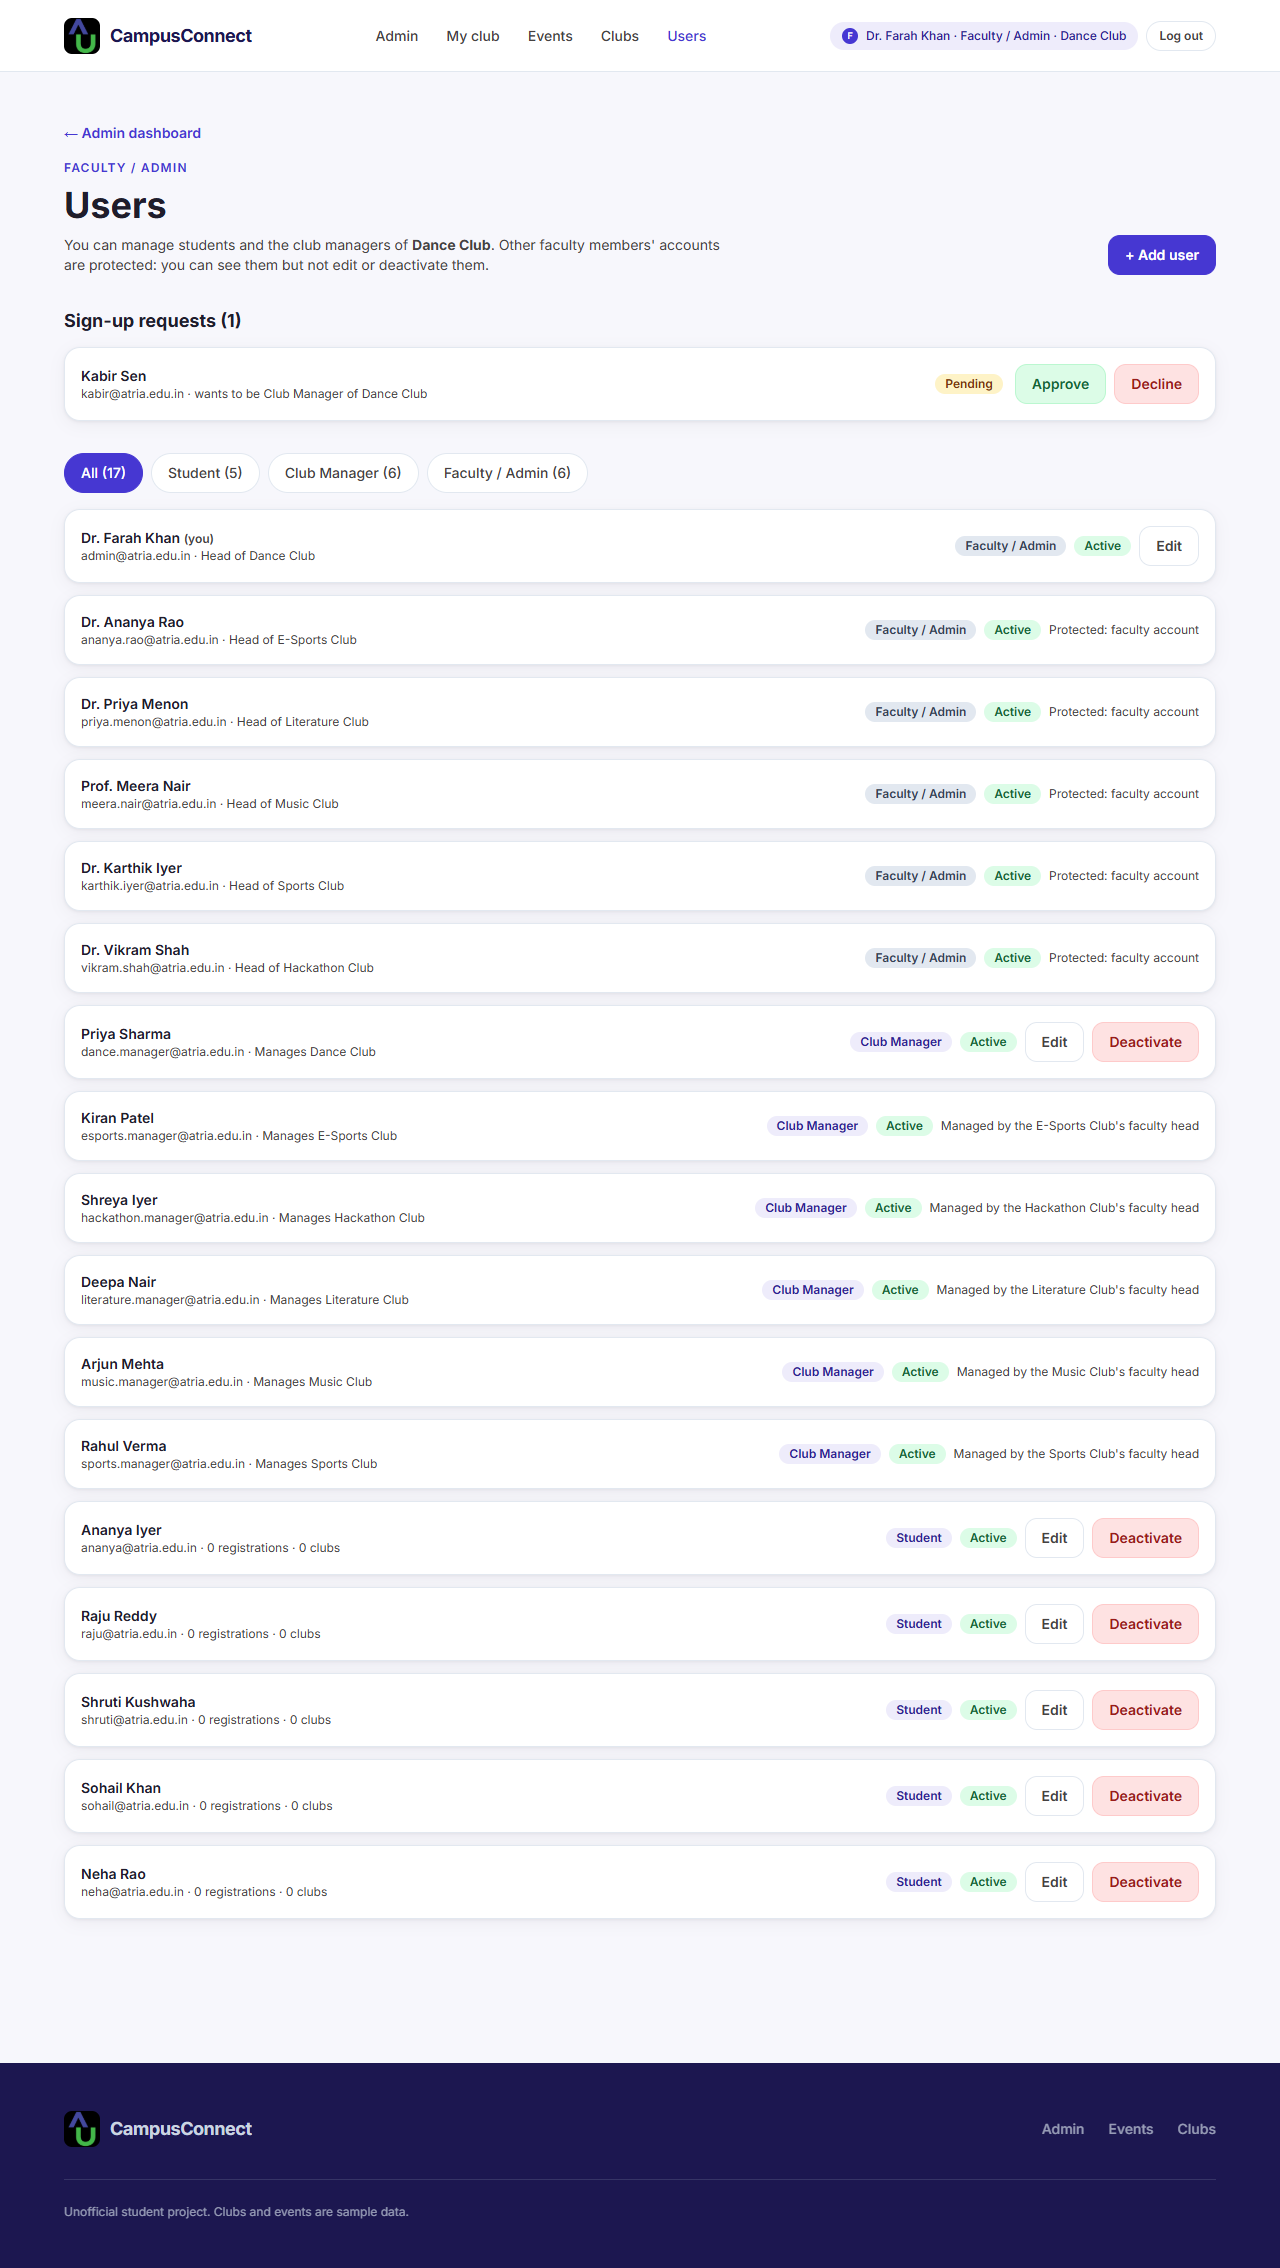
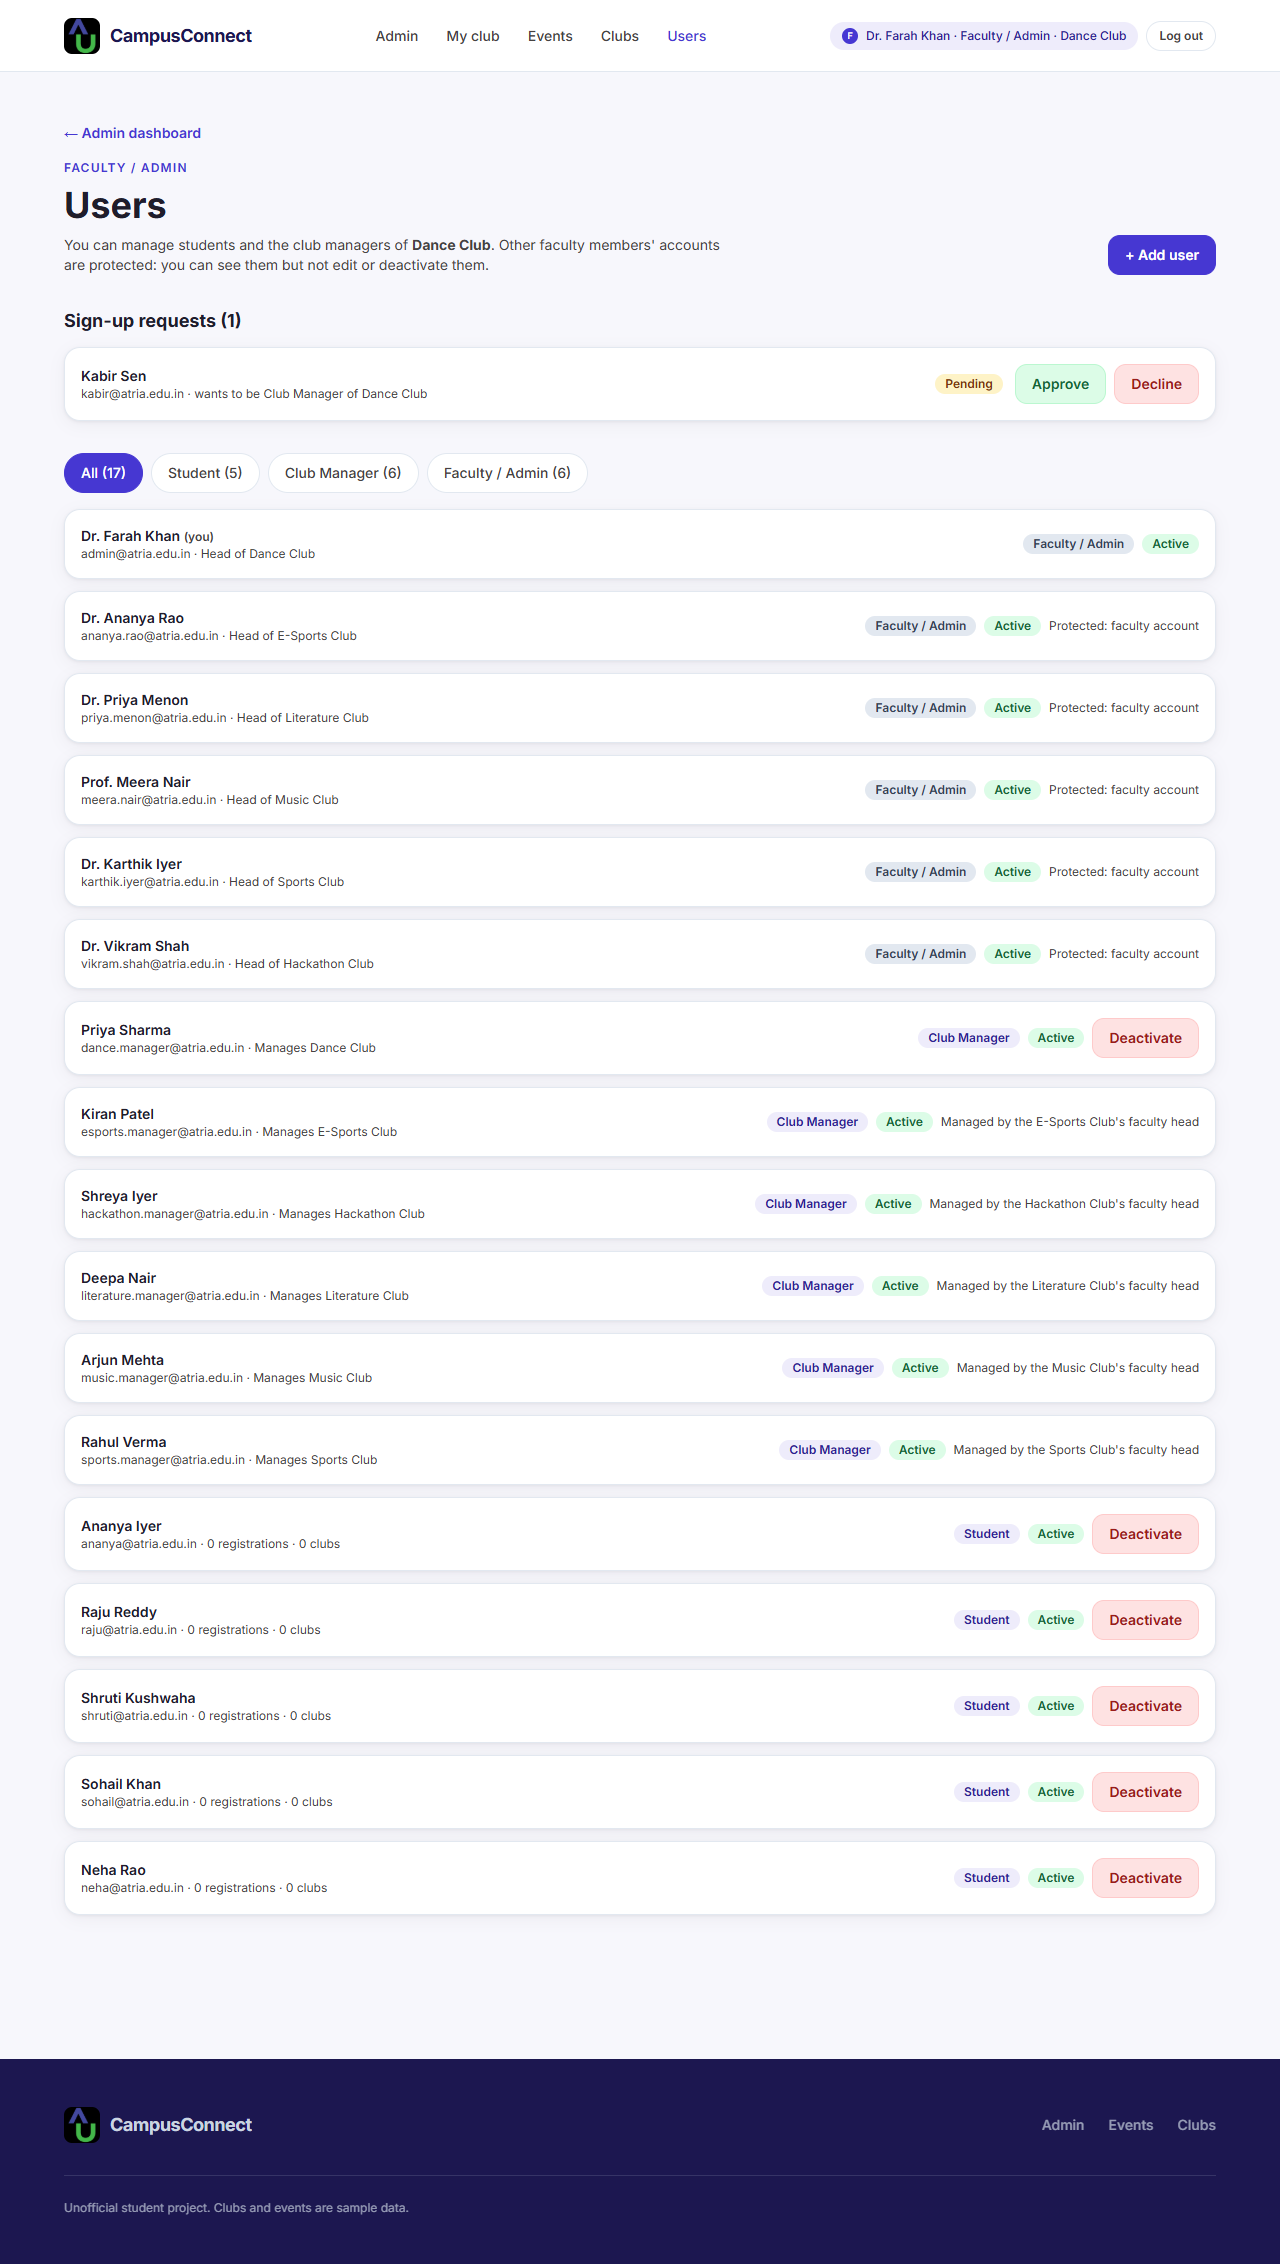
Users page: remove the Edit button from user rows

diff --git a/src/pages/faculty/ManageUsers.tsx b/src/pages/faculty/ManageUsers.tsx
@@ -31,7 +31,6 @@ export function ManageUsers() {
   // Adding: students, managers for my club, or a faculty head for a club that has none
   const roleChoices: Role[] = editingSelf ? ['faculty'] : ['student', 'clubManager', 'faculty'];
 
-  const startEdit = (u: User) => { setErrors({}); setDraft({ id: u.id, name: u.name, email: u.email, role: u.role, clubId: u.clubId ?? '', password: '' }); };
   const startNew = () => { setErrors({}); setDraft({ ...blank }); };
   const setRole = (role: Role) => {
     if (!draft) return;
@@ -183,7 +182,6 @@ export function ManageUsers() {
               <div className="flex gap-2 items-center flex-wrap">
                 <Pill tone={u.role === 'faculty' ? 'grey' : 'purple'}>{ROLE_LABELS[u.role]}</Pill>
                 {u.status === 'declined' ? <Pill tone="grey">Sign-up declined</Pill> : u.active ? <Pill tone="green">Active</Pill> : <Pill tone="red">Deactivated</Pill>}
-                {editable && u.status === 'approved' && <Button variant="ghost" onClick={() => startEdit(u)}>Edit</Button>}
                 {deactivatable && u.status === 'approved' && (
                   <Button variant={u.active ? 'danger' : 'success'} onClick={() => setToggling(u)}>{u.active ? 'Deactivate' : 'Activate'}</Button>
                 )}

diff --git a/docs/E2E_RESULTS.md b/docs/E2E_RESULTS.md
@@ -1,6 +1,6 @@
 # End-to-end test results
 
-Generated by `npm run test:e2e` (tests/e2e/run.mjs) on **2026-09-24 14:33** in headless Chrome against the real site.
+Generated by `npm run test:e2e` (tests/e2e/run.mjs) on **2026-09-24 14:56** in headless Chrome against the real site.
 **43 / 43 passed.** Screenshots: `docs/screenshots/site/`.
 
 | ID | Test | Input tried | Expected | Actual | Pass/Fail |
@@ -35,15 +35,15 @@ Generated by `npm run test:e2e` (tests/e2e/run.mjs) on **2026-09-24 14:33** in h
 | M5 | Club Manager posts an announcement; members see it | Dance manager posts "Costume fitting" | Shown in the manager's Events section; Shruti (Dance member) sees it on her dashboard | Audience "Dance Club members (locked)"; student dashboard shows "Costume fitting" | ✅ Pass |
 | F14 | Cancelled event shows on the student dashboard | Shruti registers Annual Dance Fest; Dance manager cancels it (confirm) | Dashboard: "Cancelled by organiser"; event page blocks registering | Dashboard row: "Annual Dance Fest … Cancelled by organiser"; other student sees "Cancelled" (disabled) | ✅ Pass |
 | FA1 | Faculty/Admin dashboard | Admin opens /faculty | Stats + links to Clubs, Events, Users, Announcements | Stats tiles + 4 management areas shown | ✅ Pass |
-| O3f | Faculty head manages own club + university events only | Dr. Farah Khan (head of Dance): Events page; edit Dance Workshop; open Maker Tools (unit) and Open Mic (Music) edit URLs | Own + unit events only; Music edit blocked | Navbar: Admin, My club, Events, Clubs, Users; Events rows: annual-dance-fest, film-screening, maker-tools-workshop, dance-workshop, ai-ethics-talk, career-fair, salsa-social-night-3sga; Dance Workshop venue → Studio B (student sees it); unit event editable; Music event edit blocked | ✅ Pass |
+| O3f | Faculty head manages own club + university events only | Dr. Farah Khan (head of Dance): Events page; edit Dance Workshop; open Maker Tools (unit) and Open Mic (Music) edit URLs | Own + unit events only; Music edit blocked | Navbar: Admin, My club, Events, Clubs, Users; Events rows: annual-dance-fest, film-screening, maker-tools-workshop, dance-workshop, ai-ethics-talk, career-fair, salsa-social-night-wf37; Dance Workshop venue → Studio B (student sees it); unit event editable; Music event edit blocked | ✅ Pass |
 | C2 | Duplicate club name is rejected | Admin adds club named "dance club" | Error, nothing created | "A club with this name already exists" | ✅ Pass |
 | C1 | Faculty/Admin adds a club | Add "Photography Club" | Listed on /clubs | Photography Club shown on /clubs | ✅ Pass |
 | C3 | Faculty/Admin edits club info | Change Dance Club description | New description on /clubs | Dance description updated; Music Club edit URL blocked; "My club" lists only Dance Club | ✅ Pass |
 | U1 | Faculty assigns accounts only within their scope | Dance head: Add user → Club Manager, then → Faculty; create faculty head "Asha K" for Photography Club | Managers: only Dance Club offered; faculty head: only clubs without a head; Asha manages Photography | Club Manager → clubs offered: Dance Club; Faculty head → clubs offered: Photography Club; Asha logged in, "My club" = Photography Club | ✅ Pass |
 | U2 | Deactivated user cannot log in | Admin deactivates Raju; Raju tries to log in | Error: account deactivated | "This account has been deactivated. Contact your faculty head." | ✅ Pass |
-| U3 | Faculty cannot edit or deactivate another faculty member | Dance head opens Users | Other faculty + other clubs' managers show no Edit/Deactivate; own club manager and students do | Dr. Vikram Shah: no buttons ("Protected: faculty account"); Prof. Meera Nair: none; Music manager: none; Dance manager: Edit/Deactivate; student: Edit/Deactivate | ✅ Pass |
+| U3 | Faculty cannot edit or deactivate another faculty member | Dance head opens Users | Other faculty + other clubs' managers show no Edit/Deactivate; own club manager and students do | Dr. Vikram Shah: no buttons ("Protected: faculty account"); Prof. Meera Nair: none; Music manager: none; Dance manager: Deactivate; student: Deactivate | ✅ Pass |
 | F17 | Deleted club disappears everywhere | Music head (Prof. Meera Nair) deletes Music Club (Shruti is a member) | Gone from /clubs and Shruti’s dashboard; its events cancelled; its manager and head can’t log in | Dialog warned 2 upcoming event(s); not on /clubs; Shruti's My clubs = Dance only; Battle of Bands cancelled; Music manager AND Music head logins refused | ✅ Pass |
-| N4 | Reduced motion stops the 3D animation | Emulate prefers-reduced-motion: reduce, open Home, wait 1.5 s | data-motion=reduced and exactly 1 frame drawn | reduce → motion=reduced, frames=1 (still 1 after 1 s); switched back → motion=full, frames=51 | ✅ Pass |
+| N4 | Reduced motion stops the 3D animation | Emulate prefers-reduced-motion: reduce, open Home, wait 1.5 s | data-motion=reduced and exactly 1 frame drawn | reduce → motion=reduced, frames=1 (still 1 after 1 s); switched back → motion=full, frames=80 | ✅ Pass |
 | N4 | Site works without WebGL | Block WebGL, open Home | No canvas, hero/search/featured still render, no errors | 0 canvases; hero, search and featured event rendered; 0 page errors | ✅ Pass |
 | N1 | Phone width (375 px), every role | 375×812 on public, student, manager, faculty pages | No sideways scroll anywhere | 19 routes checked at 375 px, all scrollWidth ≤ 375 | ✅ Pass |
 | N2 | Footer notice on every page | Visit main routes | "Unofficial student project" everywhere | Present on all 7 | ✅ Pass |
